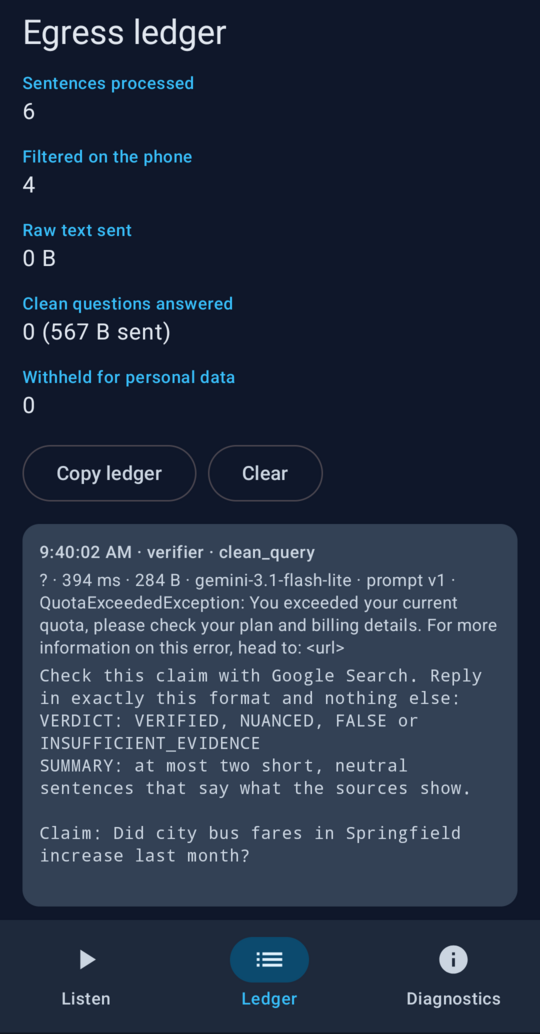
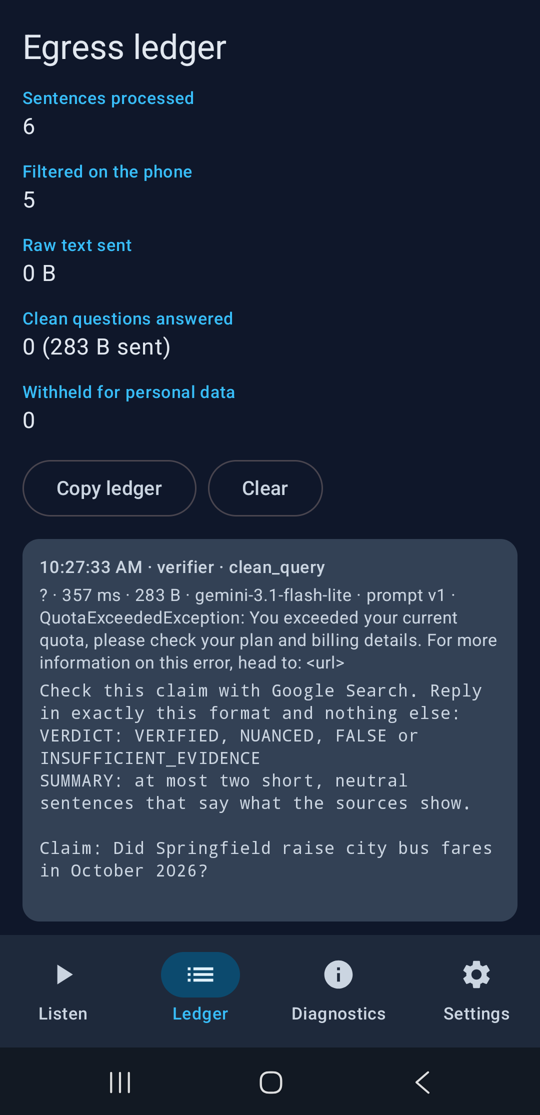
docs: current screenshots of the demo cards and the ledger

diff --git a/docs/index.md b/docs/index.md
@@ -31,8 +31,8 @@ Each card shows the source Firebase AI Logic reported for that request (on devic
 
 <div class="cl-screens" markdown>
 <figure><img src="assets/screen-listen-top.png" alt="Listen screen in Strict mode with the date, the fictional Springfield area, a pinned topic and three counters: 6 sentences read only on this phone, 0 B raw text sent, 0 claims checked in the cloud"><figcaption>Listen: Strict mode, the pinned topic and the session counters.</figcaption></figure>
-<figure><img src="assets/screen-listen-cards.png" alt="Two demo cards: each sentence rewritten on the device into a clean question about Springfield bus fares, with its resolved references and an ON_DEVICE source pill; the cloud check offers a browser search instead"><figcaption>Cards from the demo: the clean question is written on the device; here the cloud check was not set up yet, so the card offers a search.</figcaption></figure>
-<figure><img src="assets/screen-ledger.png" alt="Egress ledger: 6 sentences processed, 4 filtered on the phone, 0 B raw text sent, and the exact clean question that was sent to the cloud"><figcaption>Ledger: everything that left the phone, word for word.</figcaption></figure>
+<figure><img src="assets/screen-listen-cards.png" alt="Demo cards: a sentence rewritten on the device into a clean question about Springfield bus fares, with its resolved references and an ON_DEVICE Gemini Nano pill; the grounded check was refused on the free plan, so the card offers a browser search; small talk is dropped by the local rules"><figcaption>Cards from the demo: the clean question is written on the device; on a free-plan project the grounded check is refused, so the card offers a search. Small talk never reaches a model.</figcaption></figure>
+<figure><img src="assets/screen-ledger.png" alt="Egress ledger: 6 sentences processed, 5 filtered on the phone, 0 B raw text sent, and the exact clean question that was sent to the cloud, 283 B"><figcaption>Ledger: everything that left the phone, word for word.</figcaption></figure>
 </div>
 
 ## Get it
